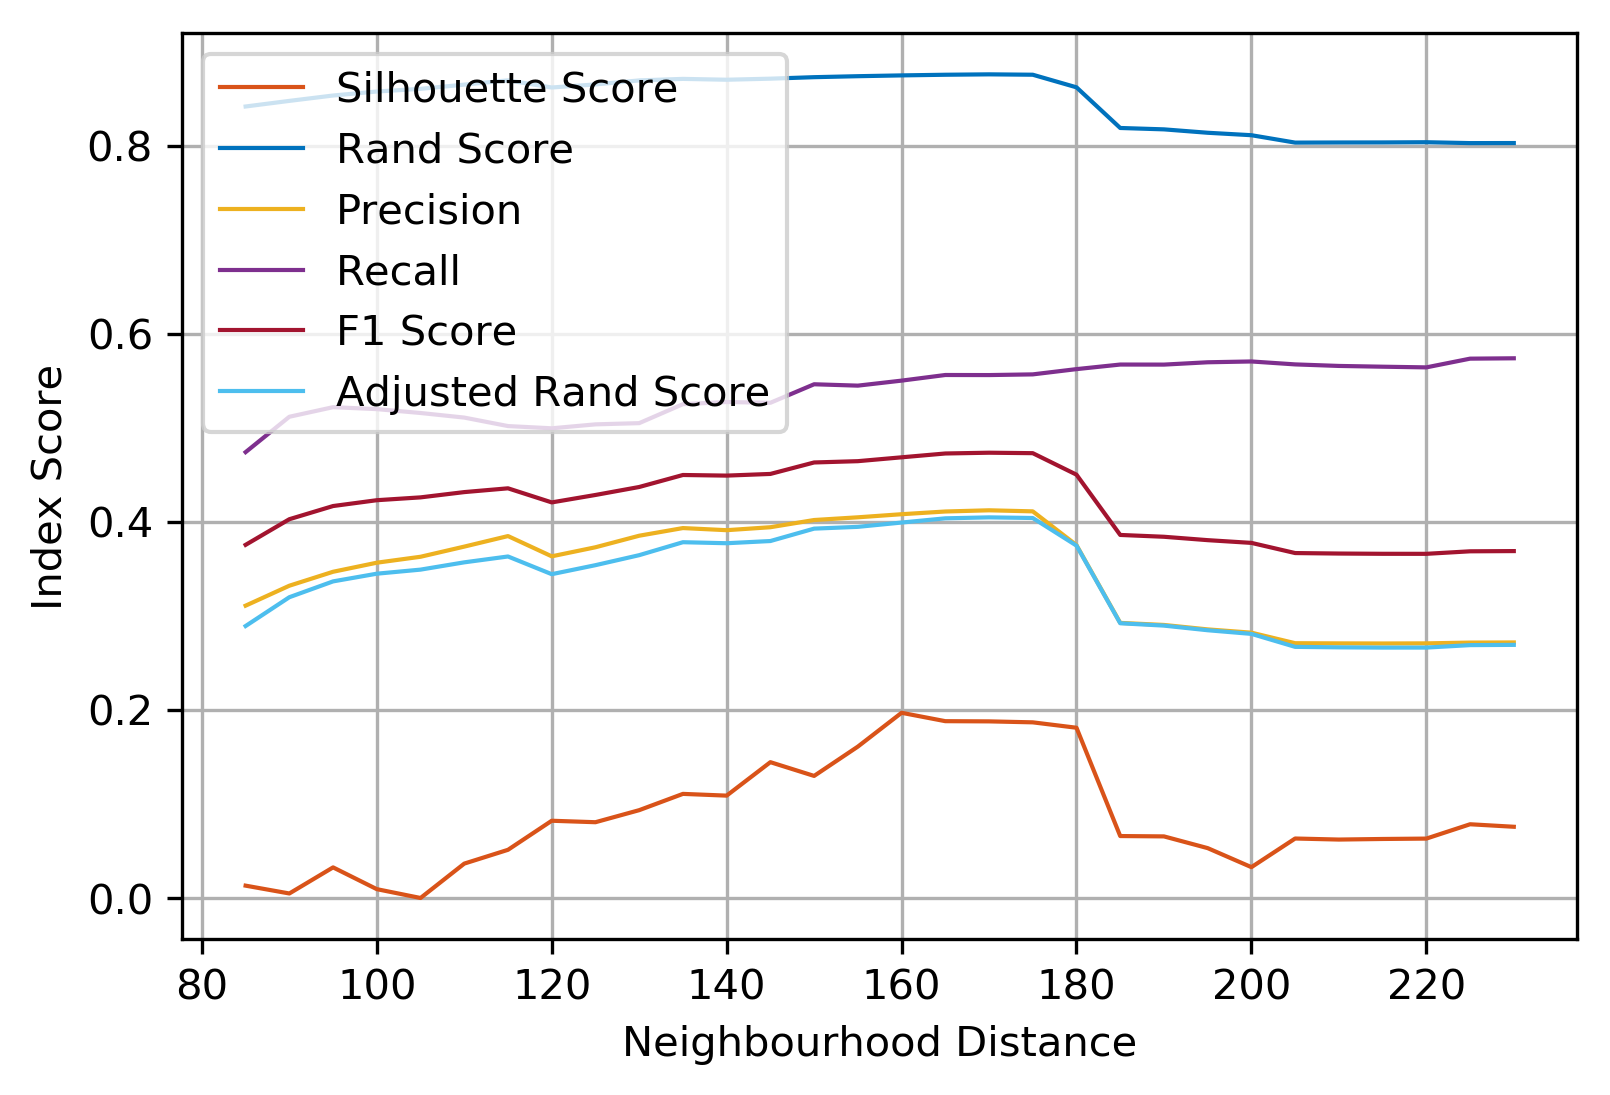
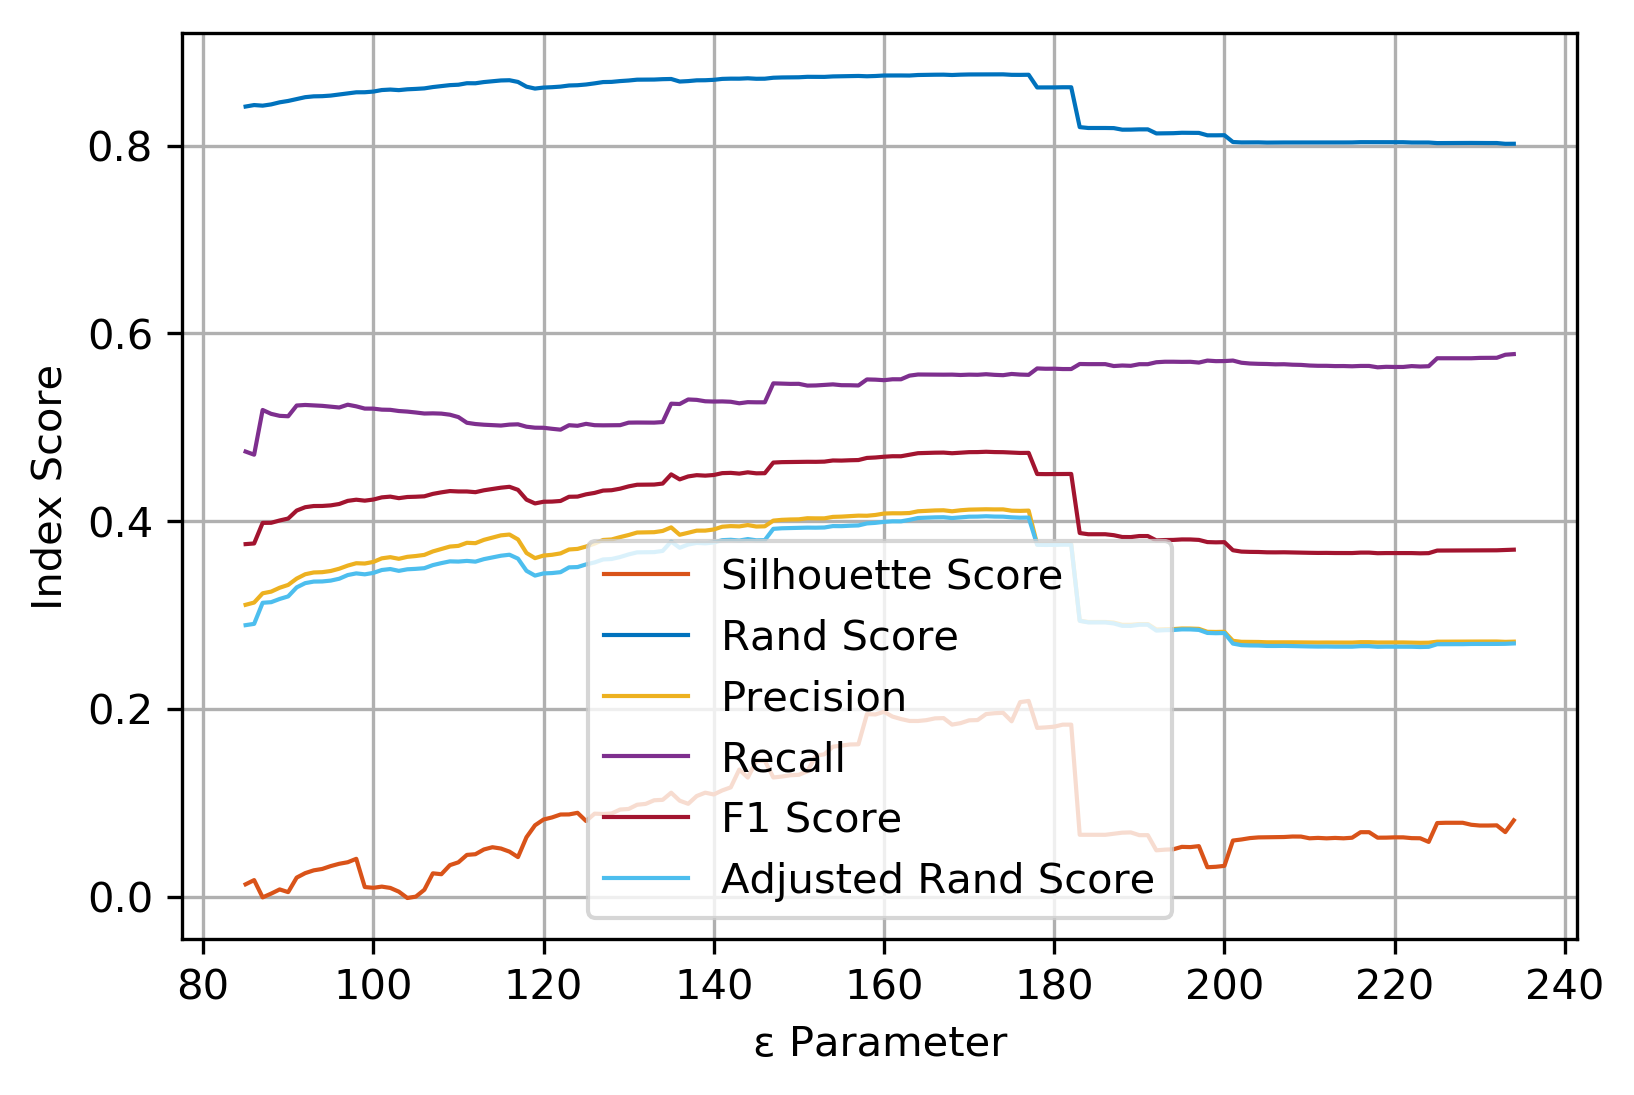
Final

diff --git a/TP2/tp2.py b/TP2/tp2.py
@@ -12,7 +12,7 @@ from sklearn import mixture as mx
 from sklearn import neighbors as nb
 from plotClasses import plot_classes
 import matplotlib.pyplot as plt
-from myaux import plot_performance, compute_silhouette, compute_rand_indexes
+from myaux import plot_performance, compute_scores
 
 RADIUS = 6371  # raio da terra em km
 EPSILON = 135
@@ -44,39 +44,36 @@ def all_points_to_3d(latitudes, longitudes):
 
 
 # devolve array com clusterings para cada num de clusters
-def k_means_cluster(points, k_clusters_range=range(10, 105, 5)):
+def k_means_cluster(points, k_clusters_range=range(20, 105)):
     clustering_labels = []
     ks = []
     print("started clustering with k-means")
     for k in k_clusters_range:  # ha 90 falhas
         clustering = cl.KMeans(n_clusters=k).fit(points)
         clustering_labels.append(clustering.labels_)
-        print(k, "clusters, ", clustering.n_iter_, "iterations this time")
         ks.append(k)
     return ks, clustering_labels
 
 
 # devolve array com clusterings para cada num de componentes gaussianos
-def gauss_mm(points, c_components_range=range(10, 105, 5)):
+def gauss_mm(points, c_components_range=range(20, 105)):
     clustering_labels = []
     cs = []
     print("started clustering with Gaussian Mixture Models")
     for c in c_components_range:  # ha 90 falhas
         clustering = mx.GaussianMixture(n_components=c).fit(points)
         clustering_labels.append(clustering.predict(points))
-        print(c, "clusters, ", clustering.n_iter_, "iterations this time")
         cs.append(c)
     return cs, clustering_labels
 
 
-def dbscan_labels(points, epsilon_range=range(EPSILON - 50, EPSILON + 100, 5)):
+def dbscan_labels(points, epsilon_range=range(EPSILON - 50, EPSILON + 100)):
     clustering_labels = []
     print("started clustering with DBSCAN")
     es = []
     for e in epsilon_range:  # ha 90 falhas
         clustering = cl.DBSCAN(e).fit(points)
         clustering_labels.append(clustering.labels_)
-        print("Neighbourhood radius: ", e)
         es.append(e)
     return es, clustering_labels
 
@@ -94,7 +91,6 @@ def plot_for_dbscan(points, faults):
     plt.plot(dists, 'k,')
     plt.show()
     num_f = num_noise(faults)
-    print("\nEpsilon ideal:", dists[num_f], "\nNum. de sismos sem falha:", num_f)
     return
 
 
@@ -112,27 +108,48 @@ def num_noise(faults):
 def plot_kmeans(points, faults):
     ks, kmeans = k_means_cluster(points)
     print("Computing K-means performance")
-    silhouette, precision, recall, rand, f1, adj_rand = compute_silhouette(kmeans, faults, points)
+    silhouette, precision, recall, rand, f1, adj_rand, best_silhouette, best_precision, best_recall, best_rand, best_f1, best_adj_rand = compute_scores(kmeans, faults, points)
+    print("Best Results Kmeans:")
+    print("silhouette:", best_silhouette[0], ks[best_silhouette[1]])
+    print("precision:", best_precision[0], ks[best_precision[1]])
+    print("recall:", best_recall[0], ks[best_recall[1]])
+    print("rand:", best_rand[0], ks[best_rand[1]])
+    print("f1:", best_f1[0], ks[best_f1[1]])
+    print("adj_rand:", best_adj_rand[0], ks[best_adj_rand[1]])
     print("Plotting K-means performance")
-    plot_performance(ks, "Number of clusters", "Index Score", "./Kmeans.png",
+    plot_performance(ks, "K clusters", "Index Score", "./Kmeans.png",
                      silhouette, precision, recall, rand, f1, adj_rand)
 
 
 def plot_gauss(points, faults):
     cs, gauss = gauss_mm(points)
     print("Computing Gaussian components performance")
-    silhouette, precision, recall, rand, f1, adj_rand = compute_silhouette(gauss, faults, points)
+    silhouette, precision, recall, rand, f1, adj_rand,  best_silhouette, best_precision, best_recall, best_rand, best_f1, best_adj_rand = compute_scores(gauss, faults, points)
+    print("Best Results Gauss:")
+    print("silhouette:", best_silhouette[0], cs[best_silhouette[1]])
+    print("precision:", best_precision[0], cs[best_precision[1]])
+    print("recall:", best_recall[0], cs[best_recall[1]])
+    print("rand:", best_rand[0], cs[best_rand[1]])
+    print("f1:", best_f1[0], cs[best_f1[1]])
+    print("adj_rand:", best_adj_rand[0], cs[best_adj_rand[1]])
     print("Plotting Gaussian components performance")
-    plot_performance(cs, "Number of Gaussian components", "Index Score", "./Gauss.png",
+    plot_performance(cs, "C components", "Index Score", "./Gauss.png",
                      silhouette, precision, recall, rand, f1, adj_rand)
 
 
 def plot_dbscan(points, faults):
     epsilons, dbscan = dbscan_labels(points)
     print("Computing DBSCAN performance")
-    silhouette, precision, recall, rand, f1, adj_rand = compute_silhouette(dbscan, faults, points)
+    silhouette, precision, recall, rand, f1, adj_rand, best_silhouette, best_precision, best_recall, best_rand, best_f1, best_adj_rand = compute_scores(dbscan, faults, points)
+    print("Best Results DBSCAN:")
+    print("silhouette:", best_silhouette[0], epsilons[best_silhouette[1]])
+    print("precision:", best_precision[0], epsilons[best_precision[1]])
+    print("recall:", best_recall[0], epsilons[best_recall[1]])
+    print("rand:", best_rand[0], epsilons[best_rand[1]])
+    print("f1:", best_f1[0], epsilons[best_f1[1]])
+    print("adj_rand:", best_adj_rand[0], epsilons[best_adj_rand[1]])
     print("Plotting DBSCAN performance")
-    plot_performance(epsilons, "Neighbourhood Distance", "Index Score", "./DBSCAN.png",
+    plot_performance(epsilons, "ε Parameter", "Index Score", "./DBSCAN.png",
                      silhouette, precision, recall, rand, f1, adj_rand)
 
 
@@ -153,12 +170,12 @@ def plot_dbscan_classes(epsilon, points, lon, lat):
 
 def plot_kmeans_classes(k_clusters, points, lon, lat):
     ks, kmeans = k_means_cluster(points, range(k_clusters, k_clusters+1))
-    plot_classes(kmeans, lon, lat)
+    plot_classes(kmeans[0], lon, lat)
 
 
 def plot_gauss_classes(c_components, points, lon, lat):
     cs, gauss = gauss_mm(points, range(c_components,c_components+1))
-    plot_classes(gauss, lon, lat)
+    plot_classes(gauss[0], lon, lat)
 
 
 def plot_all_classes(epsilon, c_components, k_clusters):
@@ -167,15 +184,3 @@ def plot_all_classes(epsilon, c_components, k_clusters):
     plot_dbscan_classes(epsilon, points, longitudes, latitudes)
     plot_kmeans_classes(k_clusters, points, longitudes, latitudes)
     plot_gauss_classes(c_components, points, longitudes, latitudes)
-
-
-#show_plots()
-
-# faults, latitudes, longitudes = get_data("tp2_data.csv")
-# points = all_points_to_3d(latitudes, longitudes)
-# plot_for_dbscan(points, faults)
-
-# plot_classes(kmeans[0], longitudes, latitudes)
-# print("gaussian[0]: ",gaussian[0])
-# plot_classes(gaussian[0],longitudes,latitudes)
-# print(dists)

diff --git a/TP2/myaux.py b/TP2/myaux.py
@@ -9,7 +9,7 @@ import numpy as np
 import matplotlib.pyplot as plt
 
 
-def compute_silhouette(labels, faults, points):
+def compute_scores(labels, faults, points):
     print("Computing silhouette scores")
     silhouettes = []
     precisions = []
@@ -17,20 +17,44 @@ def compute_silhouette(labels, faults, points):
     rands = []
     f1s = []
     adj_rands = []
-
+    best_silhouette = [-1, -1]
+    best_precision = [-1, -1]
+    best_recall = [-1, -1]
+    best_rand = [-1, -1]
+    best_f1 = [-1, -1]
+    best_adj_rand = [-1, -1]
+    
     for ix in range(len(labels)):
-        silhouettes.append(silhouette_score(points, labels[ix]))
-        precision, recall, rand, f1, adj_rand = compute_rand_indexes(labels[ix], faults)
+        silhouette = silhouette_score(points, labels[ix])
+        silhouettes.append(silhouette)
+        if best_silhouette[0] < silhouette: 
+            best_silhouette[0] = silhouette
+            best_silhouette[1] = ix
+        precision, recall, rand, f1, adj_rand = compute_ext_indexes(labels[ix], faults)
         precisions.append(precision)
+        if best_precision[0]< precision:
+            best_precision[0] = precision
+            best_precision[1] = ix
         recalls.append(recall)
+        if best_recall[0] < recall :
+            best_recall[0] = recall
+            best_recall[1] = ix
         rands.append(rand)
+        if best_rand[0] < rand : 
+            best_rand[0] = rand
+            best_rand[1] = ix
         f1s.append(f1)
+        if best_f1[0] < f1 :
+            best_f1[0] = f1
+            best_f1[1] = ix
         adj_rands.append(adj_rand)
-    return silhouettes, precisions, recalls, rands, f1s, adj_rands
+        if best_adj_rand[0] < adj_rand : 
+            best_adj_rand[0] = adj_rand
+            best_adj_rand[1]= ix   
+    return silhouettes, precisions, recalls, rands, f1s, adj_rands, best_silhouette, best_precision, best_recall, best_rand, best_f1, best_adj_rand
 
 
-def compute_rand_indexes(labels, faults):
-    print("Computing rand index scores")
+def compute_ext_indexes(labels, faults):
     sf = sc = tp = tn = 0.0
     for ix in range(len(labels)):
         same_fault = faults[ix] == faults[ix + 1:]
